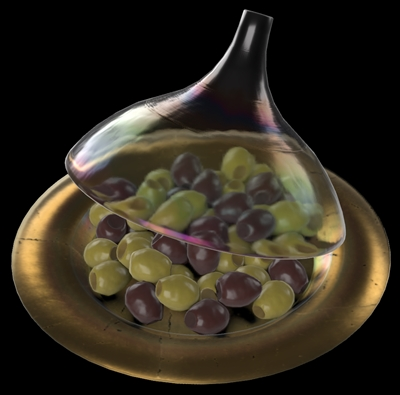
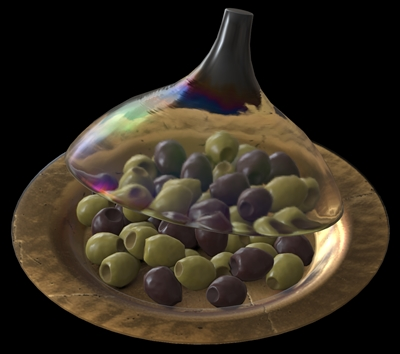
Added glTF sample model

diff --git a/index.js b/index.js
@@ -404,6 +404,10 @@ function makeTutorialExtensionTestModelLinks() {
                 td.appendChild(createlink(engines[i].name, 'tutorialModels', modelName, 'glTF', scale));
                 td.appendChild(document.createElement('br'));
                 td.appendChild(createlink(engines[i].name, 'tutorialModels', modelName, 'glTF-Binary', scale));
+            } else if ( modelName == 'PearlGoldOliveCoveredGlassDish' ) {
+                td.appendChild(createlink(engines[i].name, 'tutorialModels', modelName, 'glTF', scale));
+                td.appendChild(document.createElement('br'));
+                td.appendChild(createlink(engines[i].name, 'tutorialModels', modelName, 'glTF-Pathtracer', scale));
             } else if ( modelName == 'StainedGlassLamp' ) {
                 td.appendChild(createlink(engines[i].name, 'tutorialModels', modelName, 'glTF', scale));
                 td.appendChild(document.createElement('br'));
@@ -431,7 +435,8 @@ function replaceContentName(type) {
         "glTF-IBL": "[glTF-IBL]",
         "glTF-BasisU": "[BasisU]",
         "glTF-JPG-PNG": "[JPG/PNG]",
-        "glTF-KTX-BasisU": "[KTX/BasisU]"
+        "glTF-KTX-BasisU": "[KTX/BasisU]",
+        "glTF-Pathtracer": "[Pathtracer]"
     }
     return hashMap[type] ? hashMap[type] : type;
 }

diff --git a/tutorialModels/PearlGoldOliveCoveredGlassDish/README.md b/tutorialModels/PearlGoldOliveCoveredGlassDish/README.md
@@ -4,11 +4,15 @@
 
 ![screenshot Babylon.js](screenshot/screenshot_Large.jpg)
 
-(above) [Babylon.js Sandbox](https://sandbox.babylonjs.com/) screenshot.
+(above) [Babylon.js Sandbox](https://sandbox.babylonjs.com/) screenshot, with the [Artist Workshop HDRI](https://polyhaven.com/a/artist_workshop) from [Poly Haven](https://polyhaven.com/).
 
 ![screenshot](screenshot/glTFSampleViewer.jpg)
 
-(above) [glTF Sample Viewer](https://github.khronos.org/glTF-Sample-Viewer-Release/) screenshot, with the [Babylon.js Studio HDRI](https://github.com/BabylonJS/Assets/blob/master/environments/studioSoftbox2Umbrellas_panorama_radiance.hdr).
+(above) [glTF Sample Viewer](https://github.khronos.org/glTF-Sample-Viewer-Release/) screenshot.
+
+![screenshot](screenshot/DassaultPBRSampleRenderer.jpg)
+
+(above) Pathtraced render using the [Dassault PBR Sample Renderer](https://dassaultsystemes-technology.github.io/dspbr-pt/).
 
 ## Description
 
@@ -20,65 +24,55 @@ The use of real-world photographic reference is meant to help glTF developers wi
 
 (above) Photos of the real product.
 
-The asset uses four extensions:
-
-1. [KHR_materials_ior](https://github.com/KhronosGroup/glTF/tree/master/extensions/2.0/Khronos/KHR_materials_ior)
-1. [KHR_materials_specular](https://github.com/KhronosGroup/glTF/tree/master/extensions/2.0/Khronos/KHR_materials_specular)
-1. [KHR_materials_transmission](https://github.com/KhronosGroup/glTF/tree/master/extensions/2.0/Khronos/KHR_materials_transmission)
-1. [KHR_materials_volume](https://github.com/KhronosGroup/glTF/tree/master/extensions/2.0/Khronos/KHR_materials_volume)
-
 ## Animation
 
 The glassCover has an animation to rotate upward and back, revealing the olives inside, showcasing the refraction and specular effects on the glass.
 
 ![screenshot](screenshot/glassCover_animation.gif)
 
-(above) Animation of the glassCover, as an animated GIF.
-
-There are four materials: 
-
-1. glassCover
-1. glassDish
-1. goldLeaf
-1. olives
-
 ## glassCover Material
 
-The glassCover material uses `KHR_materials_specular` to reproduce the colored specularity of the glaze, and `KHR_materials_ior` and `KHR_materials_transmission` and `KHR_materials_volume` for refraction. 
+The glassCover material uses [KHR_materials_specular](https://github.com/KhronosGroup/glTF/tree/master/extensions/2.0/Khronos/KHR_materials_specular) to reproduce the colored specularity of the glaze, and [KHR_materials_ior](https://github.com/KhronosGroup/glTF/tree/master/extensions/2.0/Khronos/KHR_materials_ior) and [KHR_materials_transmission](https://github.com/KhronosGroup/glTF/tree/master/extensions/2.0/Khronos/KHR_materials_transmission) and [KHR_materials_volume](https://github.com/KhronosGroup/glTF/tree/master/extensions/2.0/Khronos/KHR_materials_volume) for refraction. 
 
 The specular colors are caused by a type of glaze called [carnival glass](http://www.ddoty.com/newcomers.html). On the real product the glaze is applied to the inside of the glass cover rather than the outside. However because most rasterizers render only a single layer of transmission, the specular colors were applied to both inside and outside of the cover rather than only on the inside.
 
-Refraction is simulated using `KHR_materials_transmission` along with `KHR_materials_ior` and `KHR_materials_volume` and a `thicknessTexture` that guides rasterizers to render the solid-glass tapered top with a deeper refraction. This texture is ignored by pathtracers which use the actual thickness of the geometry rather than the thickness texture. A noise pattern has been added to the thickness to reproduce the wavy refractions seen in the photos.
+Refraction is simulated using a `thicknessTexture` that guides rasterizers to render the top part of the glass cover with a deeper refraction. This texture is ignored by pathtracers which use the actual thickness of the geometry rather than the thickness texture. A noise pattern has been added to the thickness to reproduce the wavy refractions seen in photos.
 
 ![screenshot](screenshot/glassCover_textures.jpg)
 
-(above) Textures for the glassCover material: base color, specular, thickness, normal.
+(above) Textures for the glassCover material: normalTexture, thicknessTexture, specularColorTexture.
 
 ## glassDish and goldLeaf Materials
 
-The top of the glass dish uses a glass material with `KHR_materials_specular` for the colored glaze, and the bottom of the dish has gold leaf applied. Both surfaces use explicit geometry for front and back faces because the back side of each surface is visible behind the other material: from above the gold leaf is visible under the glass, and from below the glass can be seen through cracks in the goldleaf.
+The glass dish uses a glass material with `KHR_materials_specular` for the colored glaze, and the bottom of the dish has gold leaf applied. Both surfaces use explicit geometry for front and back faces because the back side of each surface is visible behind the other material: from above the gold leaf is visible under the glass, and from below the glass can be seen through cracks in the goldleaf.
 
-The glass uses only `KHR_materials_transmission` without `KHR_materials_ior` or `KHR_materials_volume` because it was preferred to have less distortion of the gold leaf visible underneath the glass. 
+The dish glass material omits `KHR_materials_ior` or `KHR_materials_volume` because it was preferred to have less distortion of the gold leaf visible underneath the glass. 
 
-The gold leaf uses `"alphaMode":"MASK"` for the cracks instead of `KHR_materials_transmission` because most rasterizers render only a single layer of transmission. If transmission was used, the gold leaf would be invisible from above under the glass. 
-
-![screenshot](screenshot/glassDish_goldleaf.jpg)
-
-(above) The gold leaf surface, as seen from underneath the model.
+The gold leaf uses `"alphaMode":"MASK"` for the cracks instead of `KHR_materials_transmission` because most rasterizers render only a single layer of transmission. If transmission was used, the gold leaf would be invisible under the glass when viewed from above. 
 
 ## Olives
 
-Olives have been added to assist in judging the refraction and occlusion details. 
+Olives have been added to assist in judging refraction and occlusion. 
 
-The upper surfaces of the glassDish and goldLeaf use a precomputed ambient occlusion texture which simulates how the olives occlude lighting on the surfaces beliow them. Rasterizers may use this texture to occlude the IBL, while pathtracers will calculate the occlusion themselves.
+The upper surfaces of the glassDish and goldLeaf use a precomputed ambient occlusion texture which simulates how the olives occlude lighting on the surfaces below them. Rasterizers may use this texture to occlude the IBL, while pathtracers will calculate the occlusion themselves.
 
-![screenshot](screenshot/glassDish_olives.jpg)
+![screenshot](screenshot/glassDish_occlusion.jpg)
 
-(above) The ambient occlusion on the glass dish and gold leaf under the olives. 
+(above) Olives on the plate, olives hidden, and the ambient occlusion texture alone.
 
-![screenshot](screenshot/glassDish_olives_refraction.jpg)
+## glTF-Pathtracer
 
-(above) As the glass cover animates, the olives help to illustrate distortions caused by refraction through the glass. 
+A variation has been added for use with pathtracers, with adjusted materials. 
+
+* glassCover roughnessFactor reduced.
+* normalTextures adjusted to use "scale":1
+* Animation removed, and glassCover rotated upwards slightly.
+
+In most rasterizers the roughness is applied only once. However in a pathtracer when a light ray is traced between a light source and the camera, the ray crosses four boundaries between air and glass; it is essentially hitting the glass four times. This increases the apparent roughness of the glass, making the glass more blurry than intended. 
+
+Additionally, pathtracers usually ignore the scale parameter for normalTextures, so the textures have been adjusted to work well with the default strength value. The same textures are reused for the rasterizer version so scale values have been adjusted in the rasterizer glTF to look good in those types of renderers. 
+
+![screenshot](screenshot/Pathtracer_Roughness.png) 
 
 ## Creation Details
 
